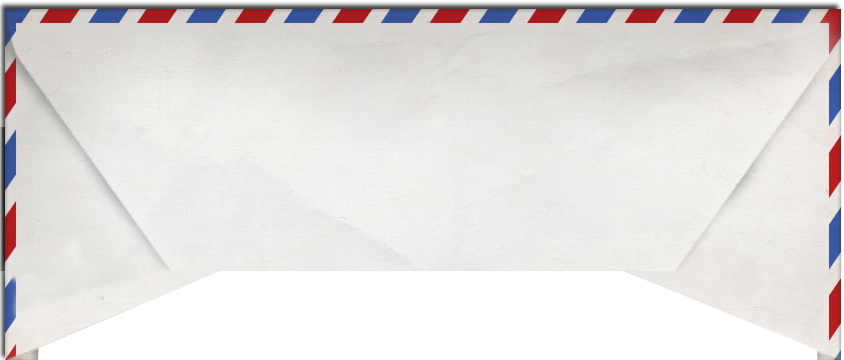
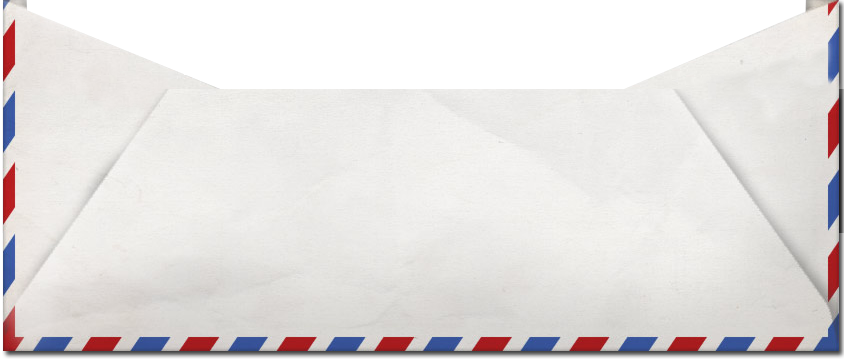
Css fixed, text added

diff --git a/index.html b/index.html
@@ -9,8 +9,13 @@
 	<link rel="stylesheet" href="C:\Users\ignas\Documents\myPage\lib\bootstrap\css\bootstrap-theme.min.css">
 	<link rel="stylesheet" type="text/css" href="C:\Users\ignas\Documents\myPage\css\test.css">
 	
-	<style type="text/css">
-	</style>
+	<style type="text/css"></style>
+	<script>
+function myFunction() {
+    alert("Thanks you, your post card was sent");
+}
+</script>
+	
 </head>
 <body>	<!-- nav bar start -->
 	<nav class="nav navbar-default" > 
@@ -99,15 +104,14 @@
 <section id="hero2" class="hero">
 	<div class="inner2">
 		<div class="copy">
-			<h1>Bang Bang il shoot you down!</h1>
-			<p>Short story about myself.</p>
+			<h1>Who? Where? Why?</h1>
 			<div class="container2">
-				<div class="col-lg-6 col-md-6 col-sm-6 col-xs-12">
+				<div class="col-lg-3 col-md-3 col-sm-3 col-xs-12">
 					<img class="profile" src="img/profile.jpg"/>
 				</div>
-				<div class="col-lg-6 col-md-6 col-sm-6 col-xs-12">
-					<h1>Who? Where? Why?</h1>
-					<p>Text about me</p>
+				<div class="col-lg-9 col-md-9 col-sm-9 col-xs-12">
+					<p>My name is Ignas Grigaravicius and I am based in Dublin, heart of Ireland. I first started taking an interest in photography back in the summer of 2012 when I purchased my first DSLR. By January 2013 I was after catching the "photography bug" big time and I have been enthusiastically and passionately pushing myself forward on my photographic journey ever since.
+					While I admire and like all forms of photography, there is an extra special feeling I get when I am outside in the natural world photographing the beautiful creations that exist around us whether it be the impressive Landscape features of the Irish coastline or the amazing nature and wildlife ecosystem that exists all around us here in Ireland</p>
 				</div>
 			</div>
 		</div>
@@ -136,16 +140,23 @@
 <section id="hero3" class="hero">
 	<div class="inner2">
 		<div class="copy">
-		<h1>Mi MonaLisa</h1>
+		<h1>My Photogallery</h1>
 			<p></p>
-				<div class="col-lg-6 col-md-6 col-sm-6 col-xs-12">
+			<div class="row">
+			<div class="col-lg-12 col-md-12 col-sm-12 col-xs-12">
+			<div class="row">
+				<div class="col-lg-3 col-md-3 col-sm-3 col-xs-12">
 					<p>lorum</p></div>
-					<div class="col-lg-6 col-md-6 col-sm-6 col-xs-12">
-						<p>Text about my photography </p>
-					</div>
+				
+				
+				
+				<div class="col-lg-9 col-md-9 col-sm-9 col-xs-12">
+					<p>If you were told to close your eyes and say all the things that spring to mind when you think of Ireland, you’d probably start with Riverdance, Irish folk music, whiskey and the beautiful, sing song lilting accent. And though all of those things are all undeniably very stereotypically Irish, many people aren’t aware of just how magnificently picturesque this island is. Nicknamed The Emerald Isle, when you set eyes on the terrain you can see exactly where this came from as Ireland is characterized by its swathes of uninterrupted, lush, verdant countryside.</p>
+					<p>You can check my trip arround the Ireland in photogallery bellow</p>
+				</div>
+				</div>
 				</div>
 			</div>
-		<!-- </div> -->
 	</section>
 	<div class="container2 row">
 		<div id="gallery">show my photogallery<span class="glyphicon glyphicon-triangle-bottom"></span></div>
@@ -300,20 +311,20 @@
 <!-- photo gallery end -->
 <!-- post card starts -->
 <div id="postcard_link"></div>
-	<section class="content">
+	<section class="content postc">
 		<h1>Post Card</h1>
 		<p></p>
 	</section>
 <section id="hero4" class="hero">
 	<div class="inner2">
 		<div class="copy">
-			<h1>Blah Blah Blah</h1>
-			<p>post any my photo printed on postcard worldwide.</p>
+			<h1>Postcard</h1>
 			<!-- <div class="image_pop"> -->
-				<div class="col-lg-6 col-md-6 col-sm-6 col-xs-12">
+				<div class="col-lg-3 col-md-3 col-sm-3 col-xs-12">
 					<img id="postcardimage" src="img/postcards.png"></div>
-					<div class="col-lg-6 col-md-6 col-sm-6 col-xs-12">
-						<p>My phostcards</p>
+					<div class="col-lg-9 col-md-9 col-sm-9 col-xs-12">
+						<p>It has never been easier to send postcards. Just choose one of my photos, write your personal text on the back side. Now all you have to do is add one or more recipients, pay, and we will produce your postcard within 24 hours and send it out by mail to anywhere in the world. After we have printed your postcards, each and every one goes through a quality assurance process. All of our postcards are made in a 4.1 x 5.8 inches format, which corresponds to the international DIN A6 norm, the traditional postcard format. We print all postcards by digital print on 300g thick paper or postcard cardboard. The postcard will also be given a high quality gloss lamination on the front side.</p>
+						<p>Surprise your friend or family memebers with the post card from Ireland</p>
 					</div>
 				</div>
 			</div>
@@ -321,36 +332,49 @@
 	</section>
 	<!-- post card ends -->
 	<!-- spinning post card starts -->
+
 	<section>
-		<div class="cardCD">
-			<div class="flipPic">show my postcards</div>
-			<div class="panelPic" style="display: none;">
-				<div class="card">
-					<div class="side">
-					<img src="img/postcardtop.jpg" class="img-thumbnail2" alt=""></div>
-						<div class="row">
-							<div class="side back col-lg-12 col-md-12 col-sm-12 col-xs-12">
-								<form class="form2">To: 
-									<input id="email2" type="text" name="text" placeholder="Receiver's name" maxlength="18"/></form>
-									<div class="row">
-										<div class="col-lg-6 col-md-6 col-sm-6 col-xs-12">
-											<form>
-												<textarea  class="txt" maxlength="240" placeholder="Your text here"></textarea></form>
+
+	<div class="row">
+		<div class="col-sm-12 col-md-12 col-lg-12">
+			<div class="cardCD">
+				<div class="flipPic">show my postcards</div>
+				<div class="panelPic" style="display: none;">
+				<div class="row">
+		 			<div class="col-sm-11 col-md-11 col-lg-11">
+						<div class="card">
+							<div class="side">
+							<img src="img/postcardtop.jpg" class="img-thumbnail2" alt=""></div>
+								<div class="row">
+									<div class="side back col-lg-12 col-md-12 col-sm-12 col-xs-12">
+										<form class="form2">To: 
+											<input id="email2" type="text" name="text" placeholder="Receiver's name" maxlength="18"/></form>
+												<div class="row">
+													<div class="col-lg-6 col-md-6 col-sm-6 col-xs-12">
+													<form>
+													<textarea  class="txt" maxlength="240" placeholder="Your text here"></textarea></form>
+												</div>
+												<div class="col-lg-6 col-md-6 col-sm-6 col-xs-12">
+													<textarea  class="txt2" maxlength="240" placeholder="Receiver's address here" ></textarea></form>
+												</div>
 											</div>
-											<div class="col-lg-6 col-md-6 col-sm-6 col-xs-12">
-												<textarea  class="txt2" maxlength="240" placeholder="Receiver's address here" ></textarea></form>
-											</div>
-										</div>
 									</div>
 								</div>
-							</div>
 						</div>
-					</div>
-				
-			</section>
+					</div>	
+				<div class="col-sm-1 col-md-1 col-lg-1 buttonPlace">
+						
+					<div onclick="myFunction()"><span><img class="letterImage" src="img/sendpost.png"><span></div>
+				</div>
+				</div>
+				</div>
+			</div>
+		</div>
+	</section>
 <!-- spining card ends -->
-<button type="submit">SEND</button>	
+
 	<footer>
+	<div class="col-sm-12 col-md-12 col-lg-12 footerInfo">
 	<div id="contacts_link"></div>		
 		<div class="container_footer">
 		<div class="col-lg-2 col-md-2 col-sm-2 col-xs-2 icon">
@@ -373,8 +397,10 @@
 		</div>
 		
 		</div>
-		<div class="container">
-		<p>All Rights Reserved.</p>
+			<div class="container">
+			<div class="col-lg-12 col-md-12 col-sm-12 col-xs-12">
+				<p>All Rights Reserved.</p>
+			</div>
 		</div>
 	</footer>
 <script src="C:\Users\ignas\Documents\Project\lib\jquery\jquery-3.2.1.js"></script>

diff --git a/css/test.css b/css/test.css
@@ -50,6 +50,13 @@ footer{
   padding-top: 20px;
   vertical-align: middle;
 }
+.navbar-default .navbar-collapse, .navbar-default .navbar-form {
+    border-color: #e7e7e7;
+    float: right;
+}
+.footerInfo{
+  margin-top: 20px;
+}
 .container{
     align-items: center;
     text-align: center;
@@ -73,12 +80,16 @@ margin: auto;
     -moz-transform: scale(1);
     transition: all 200ms ease-in;
     transform: scale(1); 
-    margin: 10px;  
+    margin-left: 40px;  
 }
 .container2 img:hover
 {
   vertical-align: middle;
-    box-shadow: 0px 0px 20px #000000;
+    -ms-filter: drop-shadow(2px 2px 1px #575757);
+    -webkit-filter: drop-shadow(2px 2px 1px #575757);
+    -moz-filter: drop-shadow(2px 2px 1px #575757);
+    -o-filter: drop-shadow(2px 2px 1px #575757);
+    filter: drop-shadow(2px 2px 1px #575757);
     z-index: 2;
     -webkit-transition: all 200ms ease-in;
     -webkit-transform: scale(1.2);
@@ -129,14 +140,16 @@ margin: auto;
[1 lines of base64/hex data omitted]
 }
 .hero h1, .hero p{ 
-  color:#fff;
+    color: #fff;
+    margin: 20px 100px 0 100px;
+    letter-spacing: 2px;
 }
 .inner{
   min-height:700px;
   position: relative;
 }
 .inner2{
-  min-height: 400px;
+  min-height: 600px;
   position: relative;
 }
 .copy{
@@ -181,6 +194,18 @@ margin: auto;
   position: relative;
   max-width: 100%;
   max-height: 250px;
+}
+.arrowdown{
+      margin-top: 190px;
+    margin-left: -70px;
+    filter: invert(100%);
+}
+.letterImage{
+  bottom: 0;
+  position: relative;
+  width: 100%;
+  cursor: pointer;
+
 }
 .modal-content {
   background-color: rgba(0,0,0,0);
@@ -230,7 +255,6 @@ margin: auto;
   padding: 20px;
 }
 .form {
-  margin-top: 200px;
   color: white;
 }
 /*panels show and hide css*/
@@ -347,6 +371,7 @@ max-width: 100%;
     text-decoration: none;
     width: 100%;
     height: 700px;
+    max-width: 1100px;
 }
 .card {
   height: 700px;
@@ -492,8 +517,8 @@ animation-name: pulse;
   /*display: inline-block;*/
 }
 .copy h1{
-  font-size: 50px;
-  font-family: 'Roboto Slab';
+      font-size: 5em;
+    font-family: 'Noto Sans';
 }
 .image_pop{
   padding-bottom: 20px;
@@ -529,8 +554,8 @@ animation-name: pulse;
 }
 #toTop{
   background-image: url(img/arrowup2.png);
-  height: 150px;
-  width: 150px;
+  height: 50px;
+  width: 50px;
   margin-right: 10px;
   margin-bottom: 10px;
   background-size:cover;
@@ -562,6 +587,9 @@ animation-name: pulse;
 .audio_sec{
   margin-left: 10px;
 }
+.buttonPlace{
+  height: 700px;
+}
 /*all media mobile css code*/
 @media screen and (max-width: 600px) {
 .inner, .inner2 {
@@ -569,6 +597,15 @@ animation-name: pulse;
 }
 h1{
   margin-top: 10px;
+}
+.profile{
+  display: none;
+}
+.postc{
+  display: none;
+  }
+#hero4{
+  display: none;
 }
 #email{
   background-color: rgba(214,184,36,0.1);
@@ -580,8 +617,6 @@ h1{
   font-weight: bold;
   margin: none;
 }
-
-
 #subscribeButton{
   height: 30px;
   width: : 30px;
@@ -603,4 +638,30 @@ h1{
 @media (max-width: 768px){
 .cardCD{
   display: none;
-}}
+}
+.hero h1{
+  font-size: 2em;
+  margin: auto;
+  }
+.hero p{
+  font-size: 0.7em;
+}
+}
+@media(max-width: 450px){
+.copy{
+  top: 30%;
+}
+.hero p{
+  margin: 50px 10px 0 10px;
+}
+.navbar-default .navbar-collapse, .navbar-default .navbar-form {
+  text-align: center;
+  float: none;
+}
+.postc{
+  display: none;
+}
+.profile{
+  display: none;
+}
+}

diff --git a/js/test.js b/js/test.js
@@ -63,3 +63,4 @@ $(document).ready(function(){
         return false;
     });
 });
+
